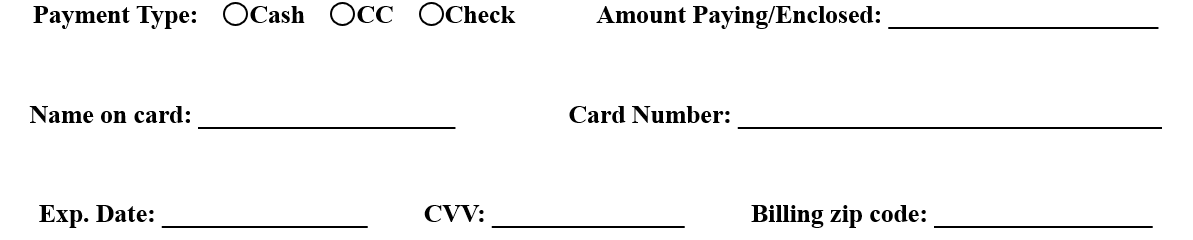
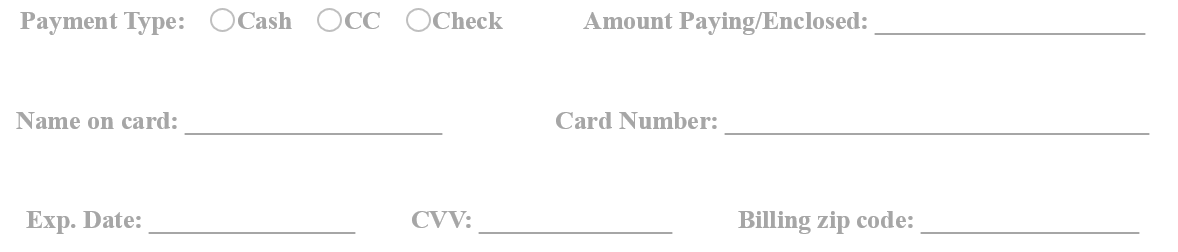
lighter font for patment info

diff --git a/billing.js b/billing.js
@@ -523,11 +523,11 @@ async function exportToWord(sheets, headers) {
           children: [
             new ImageRun({
               data: paymentBuffer,
-              transformation: { width: 400, height: 300 }
+              transformation: { width: 800, height: 200 }
             })
           ], 
           pageBreakBefore: true,
-          alignment: AlignmentType.CENTER,
+          alignment: AlignmentType.LEFT,
           spacing: { after: 200 }
         })
       ] : [])
